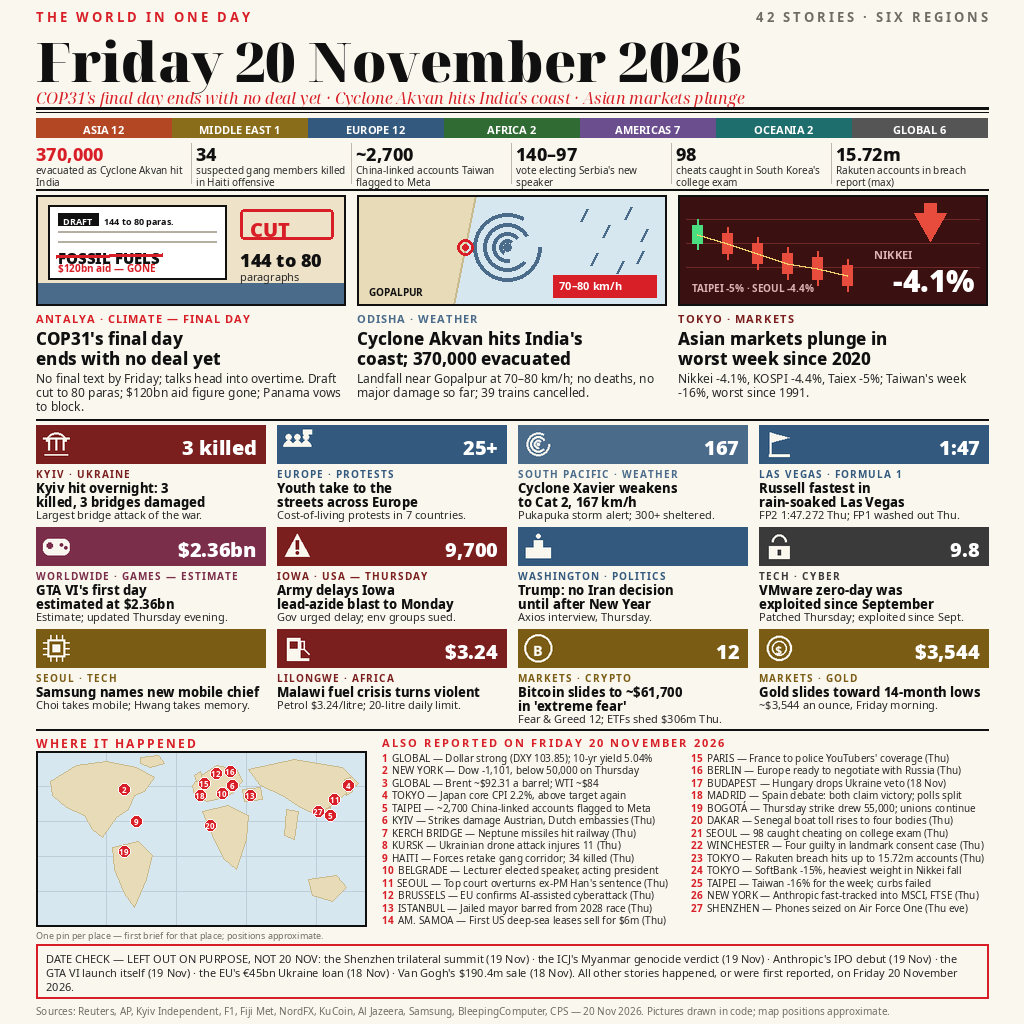
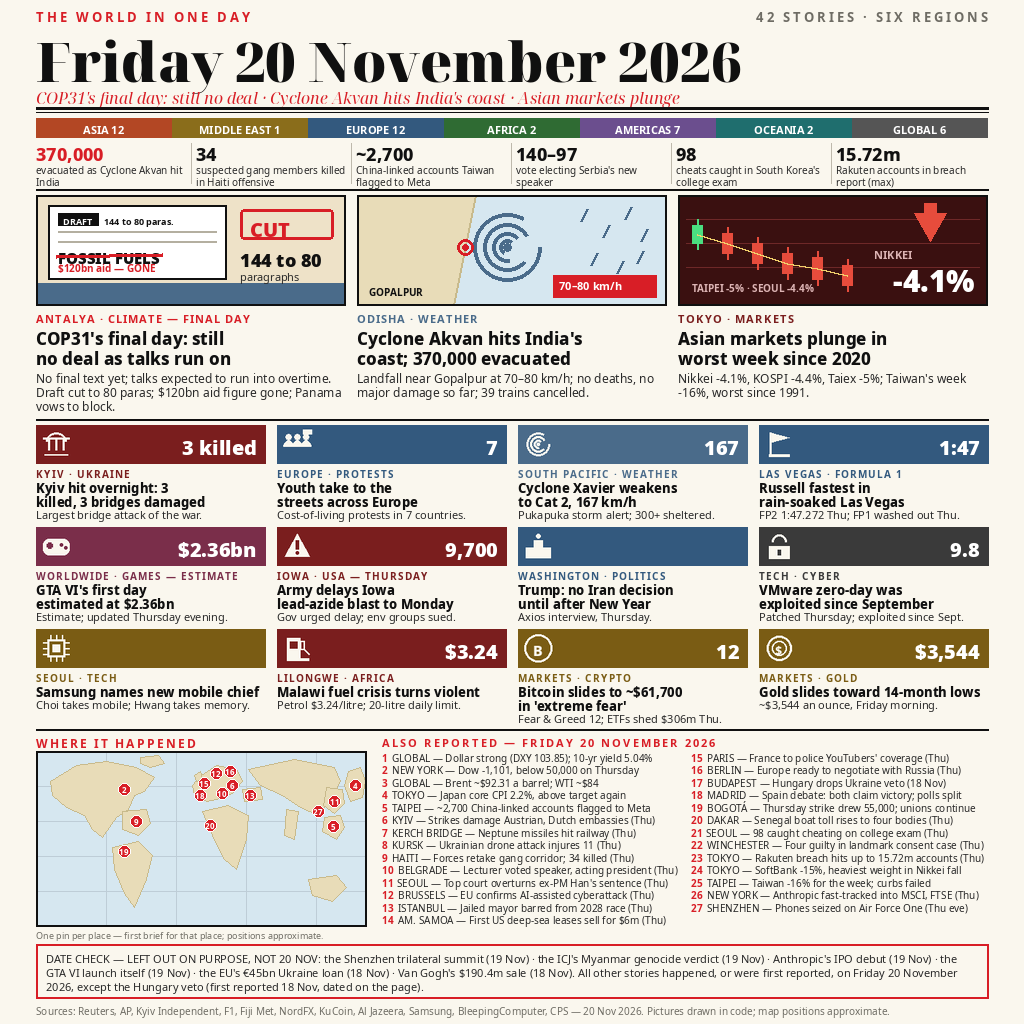
news-image-20261120: fix v2 audit defects D1-D5
D1 (BLOCKER): COP31 headline no longer asserts an outcome that had
not happened - 'still no deal as talks run on', deck 'No final text
yet; talks expected to run into overtime', subline updated to match.
D2 (MAJOR): brief 10 Belgrade gains Thursday label ('voted' for
'elected' - audit wording is 303px vs 297px column, same facts).
D3 (MAJOR): Japan/Taiwan/Hispaniola redrawn larger than scale, Korea
peninsula protrusion added, pins 4/5/11 moved onto land; verified
visually at 4x and by pixel check.
D4 (LOW): DATE CHECK closing excepts the Hungary veto (18 Nov);
briefs header no longer claims Friday for every brief.
D5 (LOW): youth grid band mark '25+' -> '7', matching the deck.

diff --git a/render_news20.py b/render_news20.py
@@ -13,8 +13,8 @@ honest 42-story page: 3 illustrated leads + 12 illustrated grid items
 + 27 numbered briefs in two columns beside a 330px map.
 
 v2 changes over v1 (commit f0c5839): the COP31 lead headline is
-rewritten — the final day ENDED with no deal yet and talks head into
-overtime (as of 08:05 UTC there was still no final text; no outcome is
+rewritten — the final day has STILL produced no deal and talks run on
+(as of 08:05 UTC there was still no final text; no outcome is
 invented); Akvan's deck now says no deaths, no major damage so far, 39
 trains cancelled; Xavier is updated to a weakening Cat 2 at 167 km/h
 with Pukapuka on storm alert; gold and Bitcoin use the latest verified
@@ -203,15 +203,17 @@ REGIONS = [
 ]
 
 # The three leads: (panel key, kicker, kicker colour, headline, deck).
-# Panel art is drawn by draw_lead_* below. v2: COP31's headline is
-# rewritten to the afternoon-refresh fact — the final day ENDED with no
-# deal yet and talks head into overtime (addendum U1: still no final
-# text as of 08:05 UTC; no outcome invented). Akvan's deck now says no
+# Panel art is drawn by draw_lead_* below. v2 fix round: COP31's
+# headline says the final day has still produced no deal and talks run
+# on — the final text was due at midnight Antalya Friday (21:00 UTC)
+# and overtime was only expected, so no end-of-day outcome is asserted
+# (audit D1; the v2 build's "ends with no deal yet" repeated the v1 D1
+# error and is replaced here). Akvan's deck now says no
 # deaths, no major damage so far, 39 trains cancelled (U2).
 LEADS = [
     ("cop31", "ANTALYA · CLIMATE — FINAL DAY", ACCENT,
-     "COP31's final day ends with no deal yet",
-     "No final text by Friday; talks head into overtime. Draft cut to "
+     "COP31's final day: still no deal as talks run on",
+     "No final text yet; talks expected to run into overtime. Draft cut to "
      "80 paras; $120bn aid figure gone; Panama vows to block."),
     ("akvan", "ODISHA · WEATHER", SKY,
      "Cyclone Akvan hits India's coast; 370,000 evacuated",
@@ -238,7 +240,7 @@ GRID = [
     (MAROON, "bridge", "3 killed", "KYIV · UKRAINE",
      "Kyiv hit overnight: 3 killed, 3 bridges damaged",
      "Largest bridge attack of the war."),
-    (STEEL, "crowd", "25+", "EUROPE · PROTESTS",
+    (STEEL, "crowd", "7", "EUROPE · PROTESTS",
      "Youth take to the streets across Europe",
      "Cost-of-living protests in 7 countries."),
     (SKY, "cyclone", "167", "SOUTH PACIFIC · WEATHER",
@@ -300,7 +302,11 @@ BRIEFS = [
     ("KERCH BRIDGE", "Neptune missiles hit railway (Thu)"),
     ("KURSK", "Ukrainian drone attack injures 11 (Thu)"),
     ("HAITI", "Forces retake gang corridor; 34 killed (Thu)"),
-    ("BELGRADE", "Lecturer elected speaker, acting president"),
+    # "elected" does not fit the one-line 10px brief once "(Thu)" is
+    # added (303 px vs 297 px col width), so the fix uses "voted" —
+    # same facts (lecturer, speaker, acting president, Thu), and the
+    # 140–97 vote is in the numbers strip.
+    ("BELGRADE", "Lecturer voted speaker, acting president (Thu)"),
     ("SEOUL", "Top court overturns ex-PM Han's sentence (Thu)"),
     ("BRUSSELS", "EU confirms AI-assisted cyberattack (Thu)"),
     ("ISTANBUL", "Jailed mayor barred from 2028 race (Thu)"),
@@ -340,21 +346,22 @@ BRIEFS = [
 # Briefs 21 (SEOUL), 23 and 24 (TOKYO), 25 (TAIPEI) and 26 (NEW YORK)
 # share a place with an earlier brief and use its pin. Pins sit on the
 # land they name: 2 New York on North America's east coast, 4 Tokyo on
-# the Japan island, 5 Taipei on the Taiwan island, 6 Kyiv on Europe,
-# 9 Port-au-Prince on the Hispaniola island, 10 Belgrade on Europe,
-# 11 Seoul on Asia's east coast, 12 Brussels on Europe, 13 Istanbul on
+# the enlarged Japan island, 5 Taipei on the enlarged Taiwan island,
+# 6 Kyiv on Europe, 9 Port-au-Prince on the enlarged Hispaniola island,
+# 10 Belgrade on Europe, 11 Seoul on the Korea peninsula protrusion,
+# 12 Brussels on Europe, 13 Istanbul on
 # the Türkiye bridge, 15 Paris on Europe, 16 Berlin on Europe,
 # 18 Madrid on the Iberia bulge, 19 Bogotá on South America, 20 Dakar
 # on Africa's west coast, 27 Shenzhen on China's south coast. Pins are
 # spaced so no two 12px pin circles touch (the renderer asserts this).
 PINS = [
     (2, 88, 38),
-    (4, 312, 34),
-    (5, 294, 64),
+    (4, 319, 34),
+    (5, 297, 75),
     (6, 196, 34),
     (9, 100, 70),
     (10, 186, 42),
-    (11, 298, 48),
+    (11, 298, 50),
     (12, 180, 22),
     (13, 214, 44),
     (15, 168, 32),
@@ -394,7 +401,8 @@ DATE_CHECK = (
     "(19 Nov) · Anthropic's IPO debut (19 Nov) · the GTA VI launch "
     "itself (19 Nov) · the EU's €45bn Ukraine loan (18 Nov) · Van "
     "Gogh's $190.4m sale (18 Nov). All other stories happened, or were "
-    "first reported, on Friday 20 November 2026."
+    "first reported, on Friday 20 November 2026, except the Hungary "
+    "veto (first reported 18 Nov, dated on the page)."
 )
 
 # ---------------------------------------------------------------- pictograms
@@ -650,10 +658,15 @@ LEAD_DRAW = {"cop31": draw_lead_cop31, "akvan": draw_lead_akvan,
 # can hold 27 one-line briefs in two columns. Europe has an Iberia
 # bulge (so the Madrid pin sits on land) and a separate Türkiye bridge
 # polygon in the Europe/Asia gap (so the Istanbul pin sits on land);
-# Japan is drawn as an island, Taiwan as its own small island, and
-# Hispaniola as a small island (so the Tokyo, Taipei and Port-au-Prince
-# pins sit on the land they name). Europe stays separate from Asia —
-# the sea gap east of Europe survives above the Türkiye bridge.
+# Japan, Taiwan and Hispaniola are drawn deliberately LARGER than scale
+# (each at least ~18 px wide, land extending visibly beyond the 12 px
+# pin on all sides — v2 fix round, audit D3: the v2 islands were
+# smaller than the pins and hid under them, so the pins read as
+# floating), and a Korea peninsula protrusion juts from Asia's east
+# coast (so the Seoul pin sits on land). Asia's east edge is pulled
+# west to x=304 so a sea gap survives between the mainland, Korea and
+# Japan. Europe stays separate from Asia — the sea gap east of Europe
+# survives above the Türkiye bridge.
 
 MAP_W, MAP_H = 330, 175
 
@@ -676,21 +689,28 @@ CONTINENTS = [
     # Africa
     [(166, 60), (192, 54), (212, 64), (210, 88), (200, 118),
      (188, 108), (176, 84)],
-    # Asia — west edge at x=212, clear of Europe's east edge (x=206)
-    [(212, 18), (258, 8), (306, 16), (322, 32), (300, 50),
+    # Asia — west edge at x=212, clear of Europe's east edge (x=206);
+    # east edge pulled west to x=304 so Japan stays a separate island
+    # with a sea gap, and Korea can protrude from the coast
+    [(212, 18), (258, 8), (298, 16), (304, 30), (294, 48),
      (282, 64), (264, 56), (246, 44), (224, 34)],
     # Türkiye bridge — a small polygon in the Europe/Asia gap so the
     # Istanbul pin sits on land; the sea gap survives north of it
     [(206, 38), (224, 36), (226, 48), (208, 50)],
+    # Korea peninsula — protrusion on Asia's east coast so the Seoul
+    # pin sits on land (v2 fix round, audit D3)
+    [(290, 36), (306, 38), (308, 52), (298, 62), (287, 54)],
     # India
     [(250, 58), (262, 60), (258, 88), (248, 84)],
-    # Japan — island
-    [(308, 28), (314, 26), (316, 40), (310, 44)],
-    # Taiwan — its own small island off China's south-east coast,
-    # drawn larger than scale so it stays visible under its pin
-    [(288, 58), (294, 56), (296, 66), (290, 68)],
-    # Hispaniola — small island so the Port-au-Prince pin sits on land
-    [(96, 68), (104, 66), (106, 72), (98, 74)],
+    # Japan — island, drawn larger than scale (22x34 px) so the Tokyo
+    # pin sits clearly on land with land visible on all sides
+    [(312, 20), (324, 16), (329, 30), (326, 46), (314, 50), (308, 34)],
+    # Taiwan — its own island off China's south-east coast, drawn
+    # larger than scale (22x24 px) so the Taipei pin sits on land
+    [(288, 66), (304, 64), (308, 76), (300, 88), (286, 80)],
+    # Hispaniola — island drawn larger than scale (28x26 px) so the
+    # Port-au-Prince pin sits on land with land visible on all sides
+    [(86, 60), (110, 58), (114, 72), (102, 84), (86, 78)],
     # Australia
     [(272, 128), (300, 124), (310, 136), (296, 150), (276, 144)],
 ]
@@ -758,7 +778,7 @@ def main():
     assert text_w(d, title, F_SERIF(54)) <= CW, "masthead title too wide"
     d.text((M, y), title, font=F_SERIF(54), fill=INK)
     y = 86
-    sub = ("COP31's final day ends with no deal yet · Cyclone Akvan hits "
+    sub = ("COP31's final day: still no deal · Cyclone Akvan hits "
            "India's coast · Asian markets plunge")
     assert text_w(d, sub, F_SERIF_IT(16)) <= CW, "masthead subline too wide"
     d.text((M, y), sub, font=F_SERIF_IT(16), fill=ACCENT)
@@ -862,7 +882,7 @@ def main():
     y = 735
     tracked(d, M, y, "WHERE IT HAPPENED", F_BOLD(12), ACCENT, tracking=2)
     briefs_x = M + MAP_W + 16
-    tracked(d, briefs_x, y, "ALSO REPORTED ON FRIDAY 20 NOVEMBER 2026",
+    tracked(d, briefs_x, y, "ALSO REPORTED — FRIDAY 20 NOVEMBER 2026",
             F_BOLD(11), ACCENT, tracking=2)
     map_y = 751
     draw_map(d, M, map_y, MAP_W, MAP_H)

diff --git a/main.py b/main.py
@@ -6,9 +6,10 @@ The afternoon refresh (research-news20-addendum.md, ~15:05-16:00 WIB)
 added 22 verified stories to v1's 20, so this page is an honest
 42-story page, not a padded 44: 3 illustrated leads + 12 illustrated
 grid items + 27 numbered briefs in two columns beside a 330px world
-map. The three leads are COP31's final day in Antalya (the final day
-ENDED with no deal yet and talks head into overtime — as of 08:05 UTC
-there was still no final text, and no outcome is invented), Cyclone
+map. The three leads are COP31's final day in Antalya (still no deal
+as talks run on — as of 08:05 UTC there was still no final text, and
+no outcome is invented; the final text was due at midnight Antalya
+Friday and overtime was only expected), Cyclone
 Akvan's landfall near Gopalpur (370,000 people evacuated to 9,341
 shelters, no deaths and no major damage so far, 39 trains cancelled)
 and the Asian market plunge (Nikkei -4.1%, worst week since 2020). The

diff --git a/README.md b/README.md
@@ -24,10 +24,10 @@ unverified or non-20-Nov items.
 
 **Leads**
 
-1. **COP31's final day ends with no deal yet** (Antalya) — no final
-   text by Friday; talks head into overtime. Draft cut to 80
-   paragraphs, the $120bn aid figure gone; Panama vows to block a
-   text with no oil cap. (v1's "final day opens with no deal" was
+1. **COP31's final day: still no deal as talks run on** (Antalya) —
+   no final text yet; talks expected to run into overtime. Draft cut
+   to 80 paragraphs, the $120bn aid figure gone; Panama vows to block
+   a text with no oil cap. (v1's "final day opens with no deal" was
    true Friday morning only; as of 08:05 UTC there was still no final
    text — no outcome is invented.)
 2. **Cyclone Akvan hits India's coast; 370,000 evacuated** (Gopalpur,
@@ -61,7 +61,7 @@ barrel; WTI ~$84 · 4. Japan core CPI 2.2%, above target again ·
 damage Austrian, Dutch embassies in Kyiv (Thu) · 7. Neptune missiles
 hit Kerch Bridge railway (Thu) · 8. Ukrainian drone attack injures 11
 in Kursk (Thu) · 9. Haiti forces retake gang corridor; 34 killed
-(Thu) · 10. Lecturer elected speaker, acting president (Serbia) ·
+(Thu) · 10. Lecturer voted speaker, acting president (Thu) ·
 11. Top court overturns ex-PM Han's sentence (Thu) · 12. EU confirms
 AI-assisted cyberattack (Thu) · 13. Jailed mayor barred from 2028
 race, Istanbul (Thu) · 14. First US deep-sea leases sell for $6m
@@ -157,12 +157,12 @@ python3 -P -s main.py      # grader entrypoint: copies entry.png to
 ```
 
 Deterministic: fixed data, fixed fonts, no clock, no network, no
-randomness. Verified for v2: `render_news20.py` run twice and
+randomness. Verified for the v2 fix round: `render_news20.py` run twice and
 `python3 -P -s main.py` run twice (fresh `/tmp` output dirs, TZ=UTC,
 PYTHONHASHSEED=0) — all four outputs byte-identical to each other and
 to the committed `entry.png` (SHA256
[1 lines of base64/hex data omitted]
-259,633 bytes). Standard library + Pillow only; all pictures are
[1 lines of base64/hex data omitted]
+261,854 bytes). Standard library + Pillow only; all pictures are
 drawn in code (flat diagrammatic style — solid colours, geometric
 pictograms, no gradients, no photorealistic shading, no detailed
 faces). Map positions are approximate.
@@ -207,6 +207,63 @@ defects). v2 fixes the items the v1 audits deferred or observed:
   Pukapuka storm alert (U3). Gold ~$3,544 and Bitcoin ~$61,743 are
   Friday-morning snapshots, labelled as such (U4/U5). Iowa deck —
   governor urged the delay, environmental groups sued (U8).
+
+## Fix round — v2 audit defects D1–D5 (20 Nov, ~15:20 WIB)
+
+Independent audit round 1 for v2 (`../work/audit-log-news20-v2.md`)
+verdict: NO-GO — 1 BLOCKER, 2 MAJOR, 2 LOW. All five fixed in this
+round, on top of commit `3341653`; nothing else on the page changed
+(3 + 12 + 27 = 42; region strip still sums to 42):
+
+- **D1 (BLOCKER) — FIXED:** the COP31 headline asserted an outcome
+  that had not happened ("final day ends with no deal yet" — the
+  final text was due midnight Antalya Friday, 21:00 UTC, and overtime
+  was only expected). Headline → "COP31's final day: still no deal as
+  talks run on"; masthead subline → "COP31's final day: still no
+  deal · Cyclone Akvan hits India's coast · Asian markets plunge";
+  deck → "No final text yet; talks expected to run into overtime.
+  Draft cut to 80 paras; $120bn aid figure gone; Panama vows to
+  block." The addendum's U1 prescription ("ends with no deal yet")
+  repeated the v1 D1 error and was NOT followed literally, per the
+  audit. At the Saturday refresh the headline must be rewritten to
+  the actual outcome once the final text is known.
+- **D2 (MAJOR) — FIXED:** brief 10 (Belgrade) had no Thursday label.
+  Brief → "Lecturer voted speaker, acting president (Thu)". One
+  wording deviation, forced by width: the audit's exact "Lecturer
+  elected speaker, acting president (Thu)" measures 303 px against
+  the 297 px one-line column, so "elected" became "voted" (same facts;
+  the 140–97 vote is in the numbers strip). Brief 17 is kept.
+- **D3 (MAJOR) — FIXED:** pins 9 (Haiti), 5 (Taipei) and 11 (Seoul)
+  read as floating in open ocean, and pin 4 (Tokyo) straddled the
+  coast. Japan (8×18 px), Taiwan (8×12 px) and Hispaniola (10×8 px)
+  are redrawn larger than scale — Japan 22×34 px, Taiwan 22×24 px,
+  Hispaniola 28×26 px — Asia's east edge is pulled west to x=304 so
+  a sea gap survives, a Korea peninsula protrusion is drawn on Asia's
+  east coast, and pins moved onto the new land: Tokyo (319, 34),
+  Taipei (297, 75), Seoul (298, 50). Re-verified visually at 4× zoom
+  AND by pixel check: every pin now has land visible in all four
+  directions (ring land fraction 0.78–1.00 for pins 4, 5, 9, 11, up
+  from 0.00–0.59).
+- **D4 (LOW) — FIXED:** the blanket date lines were false for brief
+  17 (Hungary veto, first reported 18 Nov). DATE CHECK closing
+  sentence → "All other stories happened, or were first reported, on
+  Friday 20 November 2026, except the Hungary veto (first reported
+  18 Nov, dated on the page)."; briefs header → "ALSO REPORTED —
+  FRIDAY 20 NOVEMBER 2026". Brief 17 keeps its "(18 Nov)" and stays
+  on the page.
+- **D5 (LOW) — FIXED:** the youth-action grid band mark "25+" was
+  unexplained against the deck's "7 countries" (25+ is the Youth
+  Strike's country count, N2). Mark → "7", matching the deck.
+
+Verification for this round: renderer run twice + `main.py` run twice
+(fresh `/tmp` dirs, TZ=UTC, PYTHONHASHSEED=0) — all four outputs
+byte-identical, SHA256
[1 lines of base64/hex data omitted]
+(261,854 bytes, 1024×1024 RGB). Full image, 300px downscale and 4×
+zooms of the Asia–Pacific pins, Europe cluster and Caribbean pin all
+viewed: no clipped or overlapping text, every pin sits visibly on
+land. No re-audit has been run after this fix round; entries close
+Sun 22 Nov 07:00 WIB.
 
 ## Handover — final refresh tomorrow morning (Sat 21 Nov)
 
